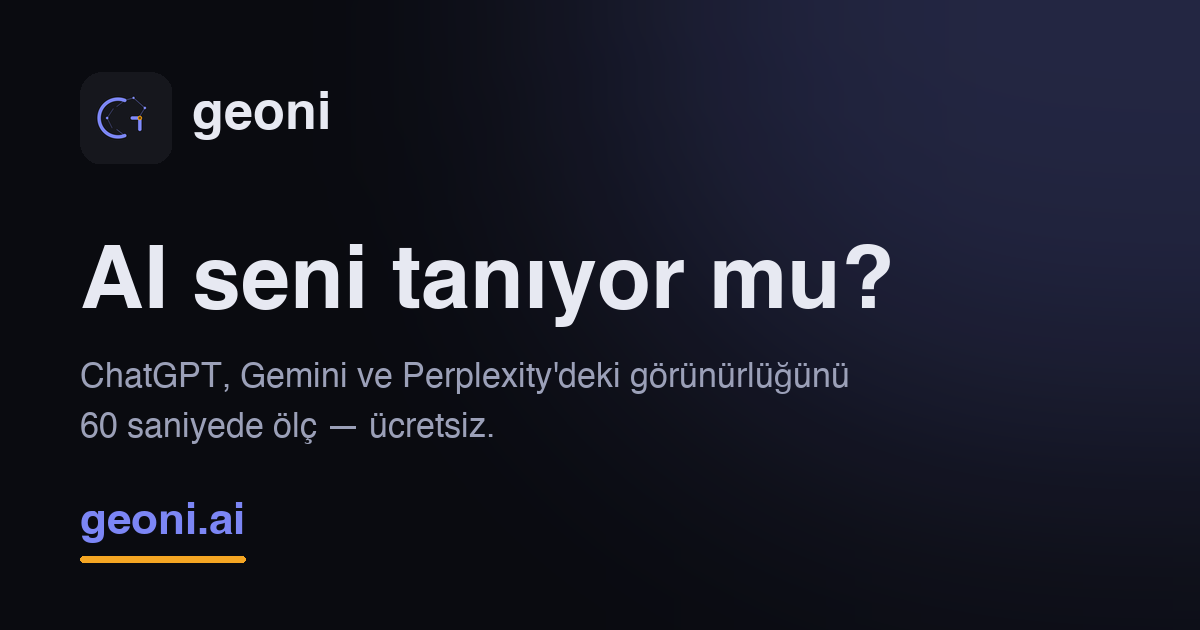
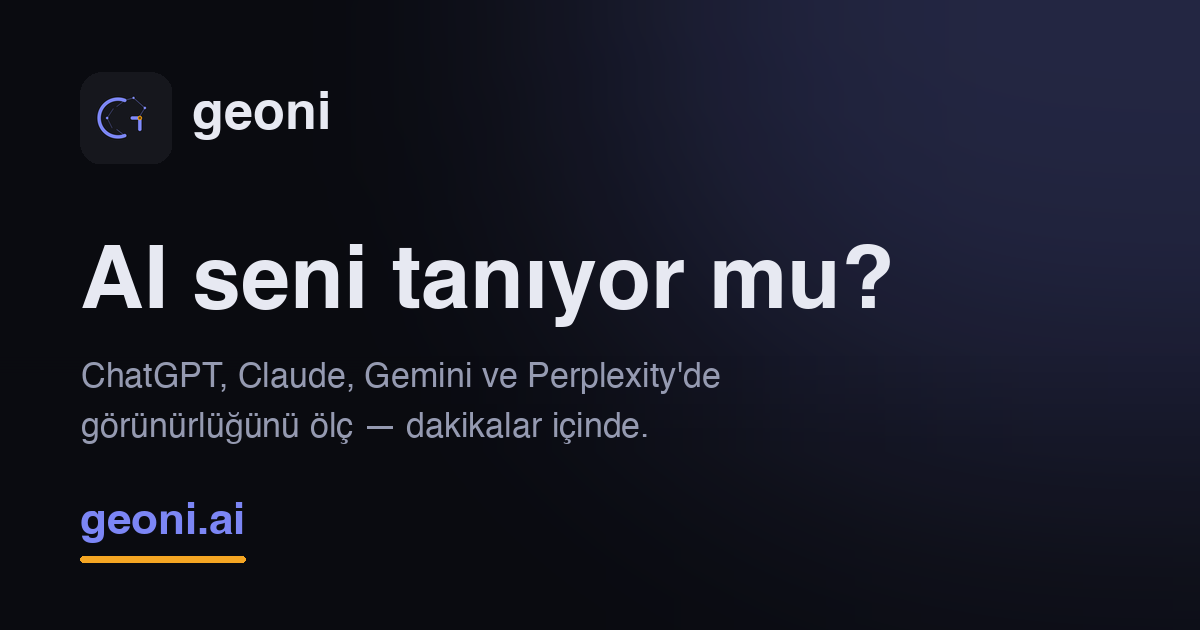
OG görselindeki ve meta metinlerindeki üç yanlış iddia temizlendi
Product Hunt lansman formunu doldururken çıktı: PH, sitenin OG görselini
galeriye KENDİ çekiyor ve o görselde şunlar yazıyordu:

  "ChatGPT, Gemini ve Perplexity'deki görünürlüğünü 60 saniyede ölç — ücretsiz."

Üç ayrı yanlış:
  · "60 saniyede" — ÖLÇÜLDÜ: 124 web taramasında medyan süre 258 saniye (4,3 dk).
    Bu iddia LinkedIn'den zaten temizlenmişti, görselde kalmış.
  · "ücretsiz" — anonim tarama 2026-08-03'te KAPATILDI; artık kayıt gerekiyor.
  · Claude EKSİK — dört motor ölçülüyor, üç tane yazıyordu (aynı hata LinkedIn'de
    de vardı, orada düzeltilmişti).

Yeni metin: "ChatGPT, Claude, Gemini ve Perplexity'de görünürlüğünü ölç —
dakikalar içinde." Zaman/ücret vaadi yok, motor sayısı doğru.

Görsel düzenleme yöntemi (LinkedIn görselinde de kullanılmıştı): zeminde
gradyan var, düz dolgu koyu blok bırakıyor → silinecek metin bloğunun ÜSTÜNDEKİ
ve ALTINDAKİ satırlar arasında sütun sütun dikey enterpolasyon. Ölçülen değerler:
metin y=362-443 (iki satır, 38px), x=81, renk (149,154,177), Helvetica 34.

Aynı iddialar meta'da da vardı ve İKİ yerde birden:
  · statik <meta property="og:description">  (index.html + en.html)
  · JS'in çalışma anında ezdiği `ogDesc` dizeleri (setMeta, satır 1476) —
    yalnız statik etiketi düzeltmek YETMEZDİ.

🪤 Ders: dizinler/sosyal platformlar siteden otomatik içerik çekiyor. Siteye
koyduğumuz her iddia, biz farkında olmadan başka yüzeylerde yayılıyor.

Claude-Session: https://claude.ai/code/session_01HZcsDtK3NGrVSxFBag4woV

Changed region(s): [[0.0617, 0.573, 0.7092, 0.6937]]

diff --git a/index.html b/index.html
@@ -19,7 +19,7 @@
 <meta property="og:locale" content="tr_TR">
 <meta property="og:locale:alternate" content="en_US">
 <meta property="og:title" content="GEONI — AI seni tanıyor mu?">
-<meta property="og:description" content="Markanın, adının veya sitenin ChatGPT, Gemini ve Perplexity'deki görünürlüğünü dakikalar içinde ölç — ücretsiz.">
+<meta property="og:description" content="Markanın, adının veya sitenin ChatGPT, Claude, Gemini ve Perplexity'deki görünürlüğünü dakikalar içinde ölç.">
 <meta property="og:image" content="https://geoni.ai/og-share.png">
 <meta property="og:url" content="https://geoni.ai">
 <meta name="twitter:card" content="summary_large_image">
@@ -1462,12 +1462,12 @@ function applyLang(lang) {
     ? { title:'GEONI — AI Visibility Optimization',
         desc:'GEO services to make your brand visible in ChatGPT, Perplexity and Gemini. Start with a free AI audit.',
         ogTitle:'GEONI — Does AI know you?',
-        ogDesc:'Measure how ChatGPT, Gemini and Perplexity see your brand, name or site in minutes — free.',
+        ogDesc:'Measure how ChatGPT, Claude, Gemini and Perplexity see your brand, name or site in minutes.',
         locale:'en_US', altLocale:'tr_TR' }
     : { title:'GEONI — AI Görünürlük Optimizasyonu',
         desc:'Markanızın ChatGPT, Perplexity ve Gemini’de görünür olması için GEO hizmetleri. Ücretsiz AI Audit ile başlayın.',
         ogTitle:'GEONI — AI seni tanıyor mu?',
-        ogDesc:'Markanın, adının veya sitenin ChatGPT, Gemini ve Perplexity’deki görünürlüğünü dakikalar içinde ölç — ücretsiz.',
+        ogDesc:'Markanın, adının veya sitenin ChatGPT, Claude, Gemini ve Perplexity’deki görünürlüğünü dakikalar içinde ölç.',
         locale:'tr_TR', altLocale:'en_US' };
   document.title = meta.title;
   const setMeta = (sel, val) => { const el = document.querySelector(sel); if (el) el.setAttribute('content', val); };

diff --git a/en.html b/en.html
@@ -19,7 +19,7 @@
 <meta property="og:locale" content="en_US">
 <meta property="og:locale:alternate" content="tr_TR">
 <meta property="og:title" content="GEONI — Does AI know you?">
-<meta property="og:description" content="Measure how ChatGPT, Gemini, Claude and Perplexity see your brand, name or site in minutes — free.">
+<meta property="og:description" content="Measure how ChatGPT, Claude, Gemini and Perplexity see your brand, name or site in minutes.">
 <meta property="og:image" content="https://geoni.ai/og-share.png">
 <meta property="og:url" content="https://geoni.ai/en">
 <meta name="twitter:card" content="summary_large_image">
@@ -1462,12 +1462,12 @@ function applyLang(lang) {
     ? { title:'GEONI — AI Visibility Optimization',
         desc:'GEO services to make your brand visible in ChatGPT, Perplexity and Gemini. Start with a free AI audit.',
         ogTitle:'GEONI — Does AI know you?',
-        ogDesc:'Measure how ChatGPT, Gemini and Perplexity see your brand, name or site in minutes — free.',
+        ogDesc:'Measure how ChatGPT, Claude, Gemini and Perplexity see your brand, name or site in minutes.',
         locale:'en_US', altLocale:'tr_TR' }
     : { title:'GEONI — AI Görünürlük Optimizasyonu',
         desc:'Markanızın ChatGPT, Perplexity ve Gemini’de görünür olması için GEO hizmetleri. Ücretsiz AI Audit ile başlayın.',
         ogTitle:'GEONI — AI seni tanıyor mu?',
-        ogDesc:'Markanın, adının veya sitenin ChatGPT, Gemini ve Perplexity’deki görünürlüğünü dakikalar içinde ölç — ücretsiz.',
+        ogDesc:'Markanın, adının veya sitenin ChatGPT, Claude, Gemini ve Perplexity’deki görünürlüğünü dakikalar içinde ölç.',
         locale:'tr_TR', altLocale:'en_US' };
   document.title = meta.title;
   const setMeta = (sel, val) => { const el = document.querySelector(sel); if (el) el.setAttribute('content', val); };
